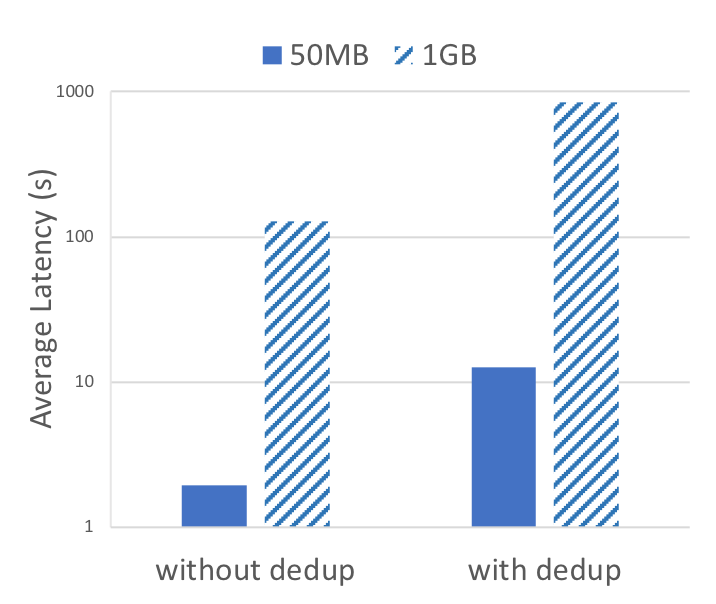
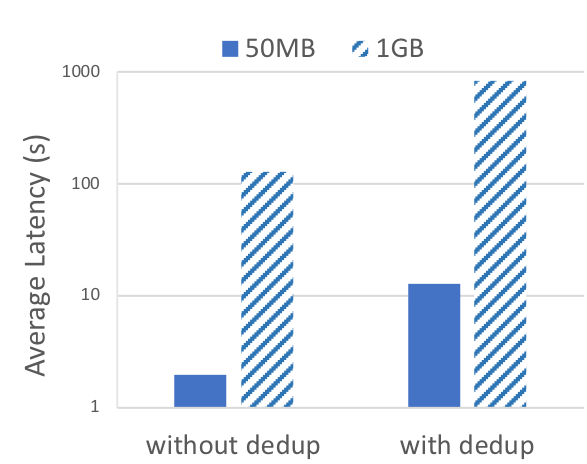
updated figures

Changed region(s): [[0.0307, 0.1207, 1.0, 0.9957], [0.368, 0.0603, 0.7359, 0.1207]]

diff --git a/hotstorage19/fig:avg_latency_dedup_nodedup.tex b/hotstorage19/fig:avg_latency_dedup_nodedup.tex
@@ -1,16 +1,16 @@
 \begin{figure}[t]
 	\centering
-		%\begin{minipage}{0.225\textwidth}
-			\centering
-			\includegraphics[width=0.5\textwidth]{graphs/avglatency_dedup_nodedup.png}
-			\caption{Layer pull latency with and without deduplication implemented with respect to average layer size}
-			%\label{fig:ref_count}
-		%\end{minipage}
-%	\begin{minipage}{0.225\textwidth}
-%		\centering
-%		\includegraphics[width=1\textwidth]{graphs/slimmer-cache.png}
-%		\caption{CDF of compress. and uncompress. layer size.}
-%		\vspace{-3pt}
+	\begin{minipage}{0.225\textwidth}
+		\centering
+		\includegraphics[width=1\textwidth]{graphs/avglatency_dedup_nodedup.png}
+		\caption{Layer pull latency w.r.t. average layer size.}
 		\label{fig:avg_latency_dedup_nodedup}
-%	\end{minipage}
+	\end{minipage}
+	\begin{minipage}{0.225\textwidth}
+		\centering
+		\includegraphics[width=1\textwidth]{graphs/lru_prefetch_hits.png}
+		\caption{CDF of reuse time for layers, repos, and users.}
+		\vspace{-3pt}
+		\label{fig:lru_prefetching_hits}
+	\end{minipage}
 \end{figure}
